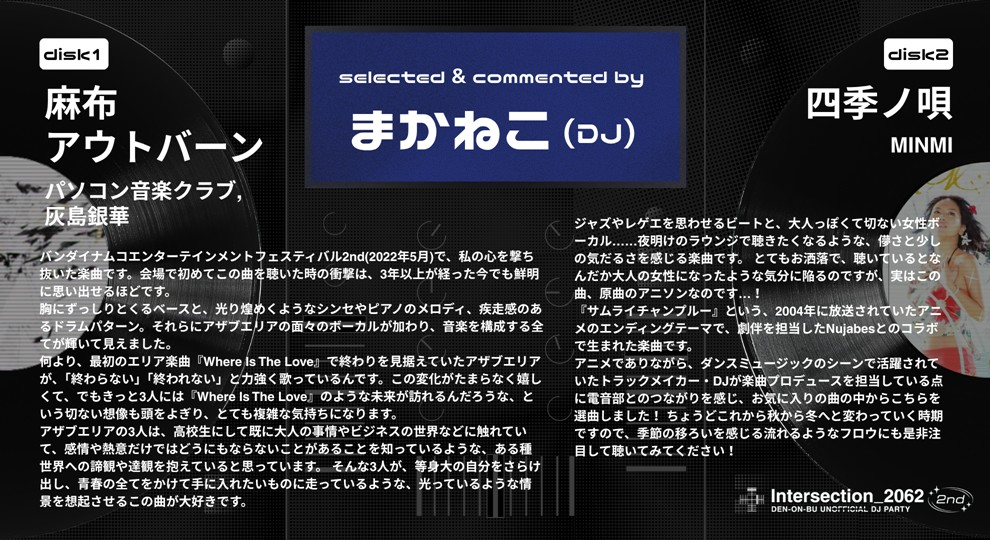
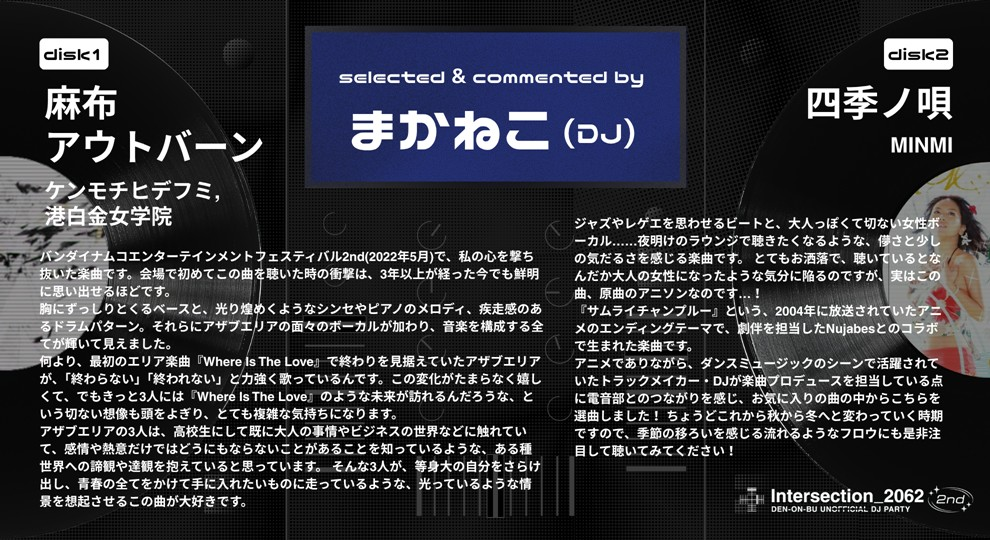
1015完成

Changed region(s): [[0.0303, 0.3259, 0.2424, 0.4148]]

diff --git a/src/styles/global.css b/src/styles/global.css
@@ -25,7 +25,7 @@
 }
 @font-face {
 	font-family: 'Arimo';
-	src: url('/fonts/Arimo-Bold.woff') format('woff');
+	src: url('/fonts/Arimo-regular.woff') format('woff');
 	font-weight: 700;
 	font-style: normal;
 	font-display: swap;

diff --git a/src/content/blog/playlist-2nd.md b/src/content/blog/playlist-2nd.md
@@ -2,7 +2,7 @@
 title: 'Intersection_2062 2nd イベントプレイリスト企画'
 description: 'イベントプレイリスト企画'
 pubDate: 'Oct 18 2025'
-heroImage: '../../assets/2-playlist/s-01_playlist_higma.jpg'
+heroImage: '../../assets/2-playlist/s-00_playlist_smn.jpg'
 ---
 「Intersection_2062 2nd イベントプレイリスト企画」として、出演者の皆さまに「電音部の楽曲」と「電音部以外の楽曲」から1曲ずつ選曲していただきました。コメントも合わせて、当日の雰囲気を想像していただけますと幸いです！
 
@@ -136,36 +136,36 @@ heroImage: '../../assets/2-playlist/s-01_playlist_higma.jpg'
 ![FAIO選曲コメント](../../assets/2-playlist/s-04_playlist_FAIO.jpg)
 
 #### Favorite Days /kz, 日高零奈
-音楽は、その「場所」に強く影響されるメディアだ。
-例えば、教会では残響が長く残るという建築上の特性があるため、対位法という複数の旋律を鳴らすテクニックが発達した。
-逆に、屋外で演奏される音楽では、旋律よりもリズムが発達した。
-「場所」が影響を与えているという事実は、音響的な側面以外にも、カルチャーの側面からも考えることができる。
-場所があり、人が集まり、営みが生まれる中でカルチャーが育っていく。
-そして私たちはしばしば、そこで生まれたカルチャーの独自性を、音楽の形に落とし込み、発信をする。
-その理由は様々だ。
-ある時は主張を届けるため、仲間の士気を上げるため、存在を知り渡らせるため。
-何れにせよ、カルチャーの存在が大きな影響を与えていることは確かだ。
-さて、クラブミュージックは名の通りクラブという「場所」で再生されることを目的として作られた音楽だ。
-そして、その特徴の中に、細分化されたジャンルが非常に多いことが挙げられるだろう。
-ハウスと一口に言っても、エレクトロ・ハウスや、プログレッシヴ・ハウス、フューチャー・ハウスなど多くの種類がある。また、そこから派生し、時に融合し、新たなジャンルが生まれることもある。きっとまだまだこの先もジャンルは増えていくだろう。
-ジャンルが多く生まれる理由の一つとして、クラブという「場所」の特性がこれにもまた関わっているのではないだろうか。
-閉じた空間の中でコミュニティが形成され、そこからカルチャーが興る。
-そしてその単位が、無数にある「クラブ」なのだと考えたら、ジャンルが多くなることも容易に想像がつくだろう。
+音楽は、その「場所」に強く影響されるメディアだ。<br>
+例えば、教会では残響が長く残るという建築上の特性があるため、対位法という複数の旋律を鳴らすテクニックが発達した。<br>
+逆に、屋外で演奏される音楽では、旋律よりもリズムが発達した。<br>
+「場所」が影響を与えているという事実は、音響的な側面以外にも、カルチャーの側面からも考えることができる。<br>
+場所があり、人が集まり、営みが生まれる中でカルチャーが育っていく。<br>
+そして私たちはしばしば、そこで生まれたカルチャーの独自性を、音楽の形に落とし込み、発信をする。<br>
+その理由は様々だ。<br>
+ある時は主張を届けるため、仲間の士気を上げるため、存在を知り渡らせるため。<br>
+何れにせよ、カルチャーの存在が大きな影響を与えていることは確かだ。<br>
+さて、クラブミュージックは名の通りクラブという「場所」で再生されることを目的として作られた音楽だ。<br>
+そして、その特徴の中に、細分化されたジャンルが非常に多いことが挙げられるだろう。<br>
+ハウスと一口に言っても、エレクトロ・ハウスや、プログレッシヴ・ハウス、フューチャー・ハウスなど多くの種類がある。また、そこから派生し、時に融合し、新たなジャンルが生まれることもある。きっとまだまだこの先もジャンルは増えていくだろう。<br>
+ジャンルが多く生まれる理由の一つとして、クラブという「場所」の特性がこれにもまた関わっているのではないだろうか。<br>
+閉じた空間の中でコミュニティが形成され、そこからカルチャーが興る。<br>
+そしてその単位が、無数にある「クラブ」なのだと考えたら、ジャンルが多くなることも容易に想像がつくだろう。<br>
 ハウスというジャンル名は、シカゴのクラブ「ウェアハウス」が由来だと言われている。
 
-2020年。未曾有の事態で私たちは分断されてしまった。
-そしてその分断は、多くのクラブを危機へと陥れることになった。
-継続が難しくなり、閉店してしまったクラブも少なくない。
-取り壊され、今では二度と見ることのできなくなってしまった光景も数多くあるだろう。
-しかし、その中で生まれた音楽は消えることはなかった。
-あの日の光景を思い出すために、または後の世代へと継いでいくために。
-また或いは、自分の信じる音楽を、己の矜持を照明するために。
+2020年。未曾有の事態で私たちは分断されてしまった。<br>
+そしてその分断は、多くのクラブを危機へと陥れることになった。<br>
+継続が難しくなり、閉店してしまったクラブも少なくない。<br>
+取り壊され、今では二度と見ることのできなくなってしまった光景も数多くあるだろう。<br>
+しかし、その中で生まれた音楽は消えることはなかった。<br>
+あの日の光景を思い出すために、または後の世代へと継いでいくために。<br>
+また或いは、自分の信じる音楽を、己の矜持を照明するために。<br>
 私たちは「PLAY/PAUSE」のボタンを押して、今日もフロアのスピーカーを振動させる。
 
-いつかまた、未曾有の事態が再び世界を襲うかもしれない。
-私たちが立っているこのフロアも無くなってしまうかもしれない。
-けれども、私たちが音楽を止めない限り、カルチャーが途絶えることはないはずだ。
-だから、この「場所」で踊り続けよう。
+いつかまた、未曾有の事態が再び世界を襲うかもしれない。<br>
+私たちが立っているこのフロアも無くなってしまうかもしれない。<br>
+けれども、私たちが音楽を止めない限り、カルチャーが途絶えることはないはずだ。<br>
+だから、この「場所」で踊り続けよう。<br>
 ミラーボールも輝くほどに、ずっと。
 
 #### Heart Beat /livetune(kz), 初音ミク
@@ -194,12 +194,12 @@ heroImage: '../../assets/2-playlist/s-01_playlist_higma.jpg'
 ![POGO選曲コメント](../../assets/2-playlist/s-05_playlist_POGO.jpg)
 
 #### Haiiro no kokoro /パソコン音楽クラブ, 灰島銀華
-灰色の心抱きしめて←ありがとう
-臆病な僕を認めて←ありがとう
+灰色の心抱きしめて←ありがとう<br>
+臆病な僕を認めて←ありがとう<br>
 本当の「わたし」 いつか見せよう←ありがとう
 
 #### No Gravity(feat. Catarrh Nisin)[Masayoshi Iimori Remix] /Savage States
-電音部4thライブ特典のGR Remix盤にも楽曲提供した、アメ村を代表するHardtekトラックメイカーSavageStatesと SprayBoxからリリースされた"Pull Out the Gunfingers"がUKGシーンでスーパーアンセムとなっている神戸在住GrimeラッパーCatarrh Nisinによるコラボスーパーバンガーチューン！！
+電音部4thライブ特典のGR Remix盤にも楽曲提供した、アメ村を代表するHardtekトラックメイカーSavageStatesと SprayBoxからリリースされた"Pull Out the Gunfingers"がUKGシーンでスーパーアンセムとなっている神戸在住GrimeラッパーCatarrh Nisinによるコラボスーパーバンガーチューン！！<br>
 両者ともUK現地のフェスやパーティでの多数出演やアーティストとの交流も深く、日本とUKバイブスを繋げる仕掛け人としてアメ村のシーンを代表する大先輩です！
 
 そしてさらにこのトラックは電音部シーズン0アルバムの特典Remixにも楽曲提供したTREKKIE TRAXのMasayoshi IimoriによるRemix！！ガチガチのローが鳴るDnBで皆と踊りたい！！
@@ -222,18 +222,18 @@ heroImage: '../../assets/2-playlist/s-01_playlist_higma.jpg'
 ![まかねこ選曲コメント](../../assets/2-playlist/s-06_playlist_macaneko.jpg)
 
 #### 麻布アウトバーン /ケンモチヒデフミ, 港白金女学院
-バンダイナムコエンターテインメントフェスティバル2nd(2022年5月)で、私の心を撃ち抜いた楽曲です。会場で初めてこの曲を聴いた時の衝撃は、3年以上が経った今でも鮮明に思い出せるほどです。
-胸にずっしりとくるベースと、光り煌めくようなシンセやピアノのメロディ、疾走感のあるドラムパターン。それらにアザブエリアの面々のボーカルが加わり、音楽を構成する全てが輝いて見えました。
-何より、最初のエリア楽曲『Where Is The Love』で終わりを見据えていたアザブエリアが、「終わらない」「終われない」と力強く歌っているんです。この変化がたまらなく嬉しくて、でもきっと3人には『Where Is The Love』のような未来が訪れるんだろうな、という切ない想像も頭をよぎり、とても複雑な気持ちになります。
-アザブエリアの3人は、高校生にして既に大人の事情やビジネスの世界などに触れていて、感情や熱意だけではどうにもならないことがあることを知っているような、ある種世界への諦観や達観を抱えていると思っています。
-そんな3人が、等身大の自分をさらけ出し、青春の全てをかけて手に入れたいものに走っているような、光っているような情景を想起させるこの曲が大好きです。
+バンダイナムコエンターテインメントフェスティバル2nd(2022年5月)で、私の心を撃ち抜いた楽曲です。会場で初めてこの曲を聴いた時の衝撃は、3年以上が経った今でも鮮明に思い出せるほどです。<br>
+胸にずっしりとくるベースと、光り煌めくようなシンセやピアノのメロディ、疾走感のあるドラムパターン。それらにアザブエリアの面々のボーカルが加わり、音楽を構成する全てが輝いて見えました。<br>
+何より、最初のエリア楽曲『Where Is The Love』で終わりを見据えていたアザブエリアが、「終わらない」「終われない」と力強く歌っているんです。この変化がたまらなく嬉しくて、でもきっと3人には『Where Is The Love』のような未来が訪れるんだろうな、という切ない想像も頭をよぎり、とても複雑な気持ちになります。<br>
+アザブエリアの3人は、高校生にして既に大人の事情やビジネスの世界などに触れていて、感情や熱意だけではどうにもならないことがあることを知っているような、ある種世界への諦観や達観を抱えていると思っています。<br>
+そんな3人が、等身大の自分をさらけ出し、青春の全てをかけて手に入れたいものに走っているような、光っているような情景を想起させるこの曲が大好きです。<br>
 
 #### 四季ノ唄 /MINMI
 ジャズやレゲエを思わせるビートと、大人っぽくて切ない女性ボーカル……夜明けのラウンジで聴きたくなるような、儚さと少しの気だるさを感じる楽曲です。
-とてもお洒落で、聴いているとなんだか大人の女性になったような気分に陥るのですが、実はこの曲、原曲のアニソンなのです…！
-『サムライチャンプルー』という、2004年に放送されていたアニメのエンディングテーマで、劇伴を担当したNujabesとのコラボで生まれた楽曲です。
-アニメでありながら、ダンスミュージックのシーンで活躍されていたトラックメイカー・DJが楽曲プロデュースを担当している点に電音部とのつながりを感じ、お気に入りの曲の中からこちらを選曲しました！
-ちょうどこれから秋から冬へと変わっていく時期ですので、季節の移ろいを感じる流れるようなフロウにも是非注目して聴いてみてください！
+とてもお洒落で、聴いているとなんだか大人の女性になったような気分に陥るのですが、実はこの曲、原曲のアニソンなのです…！<br>
+『サムライチャンプルー』という、2004年に放送されていたアニメのエンディングテーマで、劇伴を担当したNujabesとのコラボで生まれた楽曲です。<br>
+アニメでありながら、ダンスミュージックのシーンで活躍されていたトラックメイカー・DJが楽曲プロデュースを担当している点に電音部とのつながりを感じ、お気に入りの曲の中からこちらを選曲しました！<br>
+ちょうどこれから秋から冬へと変わっていく時期ですので、季節の移ろいを感じる流れるようなフロウにも是非注目して聴いてみてください！<br>
 
 <div class="name-and-x">
 	<h3 id="shopon">しょうぽん</h3> 
@@ -276,13 +276,13 @@ KOTONOHOUSEさんの踊れる曲調と音によって進んでいく物語を感
 ![めり選曲コメント](../../assets/2-playlist/s-08_playlist_mery.jpg)
 
 #### good night baby /Moe Shop, 犬吠埼紫杏
-この曲を聴くたびに、犬吠埼紫杏さんのことが好きだな、と思います。
-科学技術が発展した2062年、どこか空虚感があるのは紫杏だけではないでしょう。しかし、紫杏は「道徳のない僕らの「正義」エゴばかりの常識」と世界に絶望しつつ、それでも「人生は捨てたもんじゃない」と愛を信じています。そして、心から希望を持てるまでの時間、助けになってくれるのが音楽だというわけです。
+この曲を聴くたびに、犬吠埼紫杏さんのことが好きだな、と思います。<br>
+科学技術が発展した2062年、どこか空虚感があるのは紫杏だけではないでしょう。しかし、紫杏は「道徳のない僕らの「正義」エゴばかりの常識」と世界に絶望しつつ、それでも「人生は捨てたもんじゃない」と愛を信じています。そして、心から希望を持てるまでの時間、助けになってくれるのが音楽だというわけです。<br>
 私にとって『good night baby』は、人間の、愛の、音楽の讃歌として、5年間響き続けています。
 
 #### Aidys Girl's a Computer /Darkstar
-その静謐さと特徴的なメロディーパターンから、DJで使うのが難しめなので、文面で好きな曲と言われるとどうしても紹介したくなる曲です。今回もDJでは流さないと思います。
-どこか物悲しくて機械的な雰囲気のなかに、郷愁のようなものを感じるのが素敵です。ずっと歌詞ばかり読んでいた私ですが、この曲をきっかけに音で感じる物語を知りました。
+その静謐さと特徴的なメロディーパターンから、DJで使うのが難しめなので、文面で好きな曲と言われるとどうしても紹介したくなる曲です。今回もDJでは流さないと思います。<br>
+どこか物悲しくて機械的な雰囲気のなかに、郷愁のようなものを感じるのが素敵です。ずっと歌詞ばかり読んでいた私ですが、この曲をきっかけに音で感じる物語を知りました。<br>
 こういう曲をもっと知りたい！ なんて調べたら出てきますか？？
 
 <div class="name-and-x">
@@ -303,13 +303,14 @@ KOTONOHOUSEさんの踊れる曲調と音によって進んでいく物語を感
 ![ういろう選曲コメント](../../assets/2-playlist/s-09_playlist_willow.jpg)
 
 #### Starchild /日高零奈
-『電音部』という物語を表象する歌詞は『You Are The Light』などを含めて沢山ありますが、その中でも
-「キミが誰かの背中見つめてるとき キミも誰かのポラリス」
+『電音部』という物語を表象する歌詞は『You Are The Light』などを含めて沢山ありますが、その中でも<br>
+「キミが誰かの背中見つめてるとき キミも誰かのポラリス」<br>
 というフレーズは、人から人へ受け継がれる想いという点で電音部第2部の物語をこれ以上なく簡潔に表していると感じたからです。
+
 日高零奈さんだけでなく、それこそ『なつそらとわたし』で披露した時のように、ハラジュクエリアの皆さんや他のエリアの方々、延いては2062年という、呆れ返るほど自由な世界で夢に手を伸ばす人全員にピッタリな歌だと思っています。
 
 #### Day After Day feat.高橋芽以 /パソコン音楽クラブ
-フィクションみたいな鮮烈な出来事は起きないけれど、それでも日々に散らばる小さな幸せの欠片をかき集めて、明日を生きる活力としたい。
+フィクションみたいな鮮烈な出来事は起きないけれど、それでも日々に散らばる小さな幸せの欠片をかき集めて、明日を生きる活力としたい。<br>
 そういう、何気ない毎日を生きる上でのささやかな願いが封じ込められた素敵な歌詞だと思うからです。
 
 <h2 id="vj">VJ's pick</h2>
@@ -334,18 +335,25 @@ KOTONOHOUSEさんの踊れる曲調と音によって進んでいく物語を感
 #### My Place /PICASONIC, nakotanmaru, 鳳凰火凛
 本当に電音部でのPIKASONICさんの楽曲を待ちわびてました！！！
 nakotanmaruさんが描く孤独な闘いをしていた"最強"の"成長"を綴るLyricが本当に染み渡る1曲です！！！
+
 いろいろ言いたいことはあるのですが、電音部ノベル第2部のネタバレ回避のためあまり語れないので、ぜひ、電音部ノベル第2部やこれまでの電音部楽曲（特にシブヤエリアや鳳凰火凛ソロの楽曲）と一緒にお楽しみください！！！
+
 …おかえり、火凛。
 
 #### 七ツ風 /ナナツカゼ
 文脈的には"一透星"を挙げるべきなのかもしれませんがこちらの楽曲を紹介させてください。
+
 My Placeで紹介した、PIKASONICさんとnakotanmaruさんのナナツカゼの楽曲。
+
 秋の切ない"和"×"FutureBass"×"Rock"。
 "七ツ風"のひとつの物語なのかなと思います。
+
 他のナナツカゼ楽曲とは結構異なりますが、七ツ風からでも、ほかの楽曲からでもいいのでナナツカゼを聴いてほしいです。
 そして、Spotifyで紹介されていると思いますが、omyさんが描く"七ツ風"も感じてほしいので、ぜひYouTubeのMVも見てほしいです。
+
 ようやくこの楽曲が染み渡るぐらい涼しくなってきましたね。
 いつまでも物語の二人には一緒であってほしい…です。
+
 …ありがとうございます、ナナツカゼ。
 
 
@@ -415,12 +423,12 @@ It started here
 ![たっつんコメント](../../assets/2-playlist/s-13_playlist_tattun.jpg)
 
 #### 青雲リフレイン /picco, 中野電脳
-一度聴いたら忘れないメロディー、キャラクターそれぞれの思いや葛藤が込められた歌詞、ステージ上でのパフォーマンスも合わさって大好きな曲です。
+一度聴いたら忘れないメロディー、キャラクターそれぞれの思いや葛藤が込められた歌詞、ステージ上でのパフォーマンスも合わさって大好きな曲です。<br>
 「ありもしない声にどうか耳を向けないで 聴こえてるはずだ心繋ぐフレーズが」←ここで2人が語りかける構図があまりにも美しい。この曲から電音部4thLIVEが始まったのもいい思い出です。
 
 #### ナイトレコード /higma
-夜を泳ぐような曲の雰囲気、MVとのシンクロ具合も大好きです。
-「普通が出来ない」と思い悩み、夜を歩いていそうなあのキャラクターを思いながら聴いています。
+夜を泳ぐような曲の雰囲気、MVとのシンクロ具合も大好きです。<br>
+「普通が出来ない」と思い悩み、夜を歩いていそうなあのキャラクターを思いながら聴いています。<br>
 「いつの間にか探していた答えは ここにあったようで」←ここが大好き。
 
 <style>
